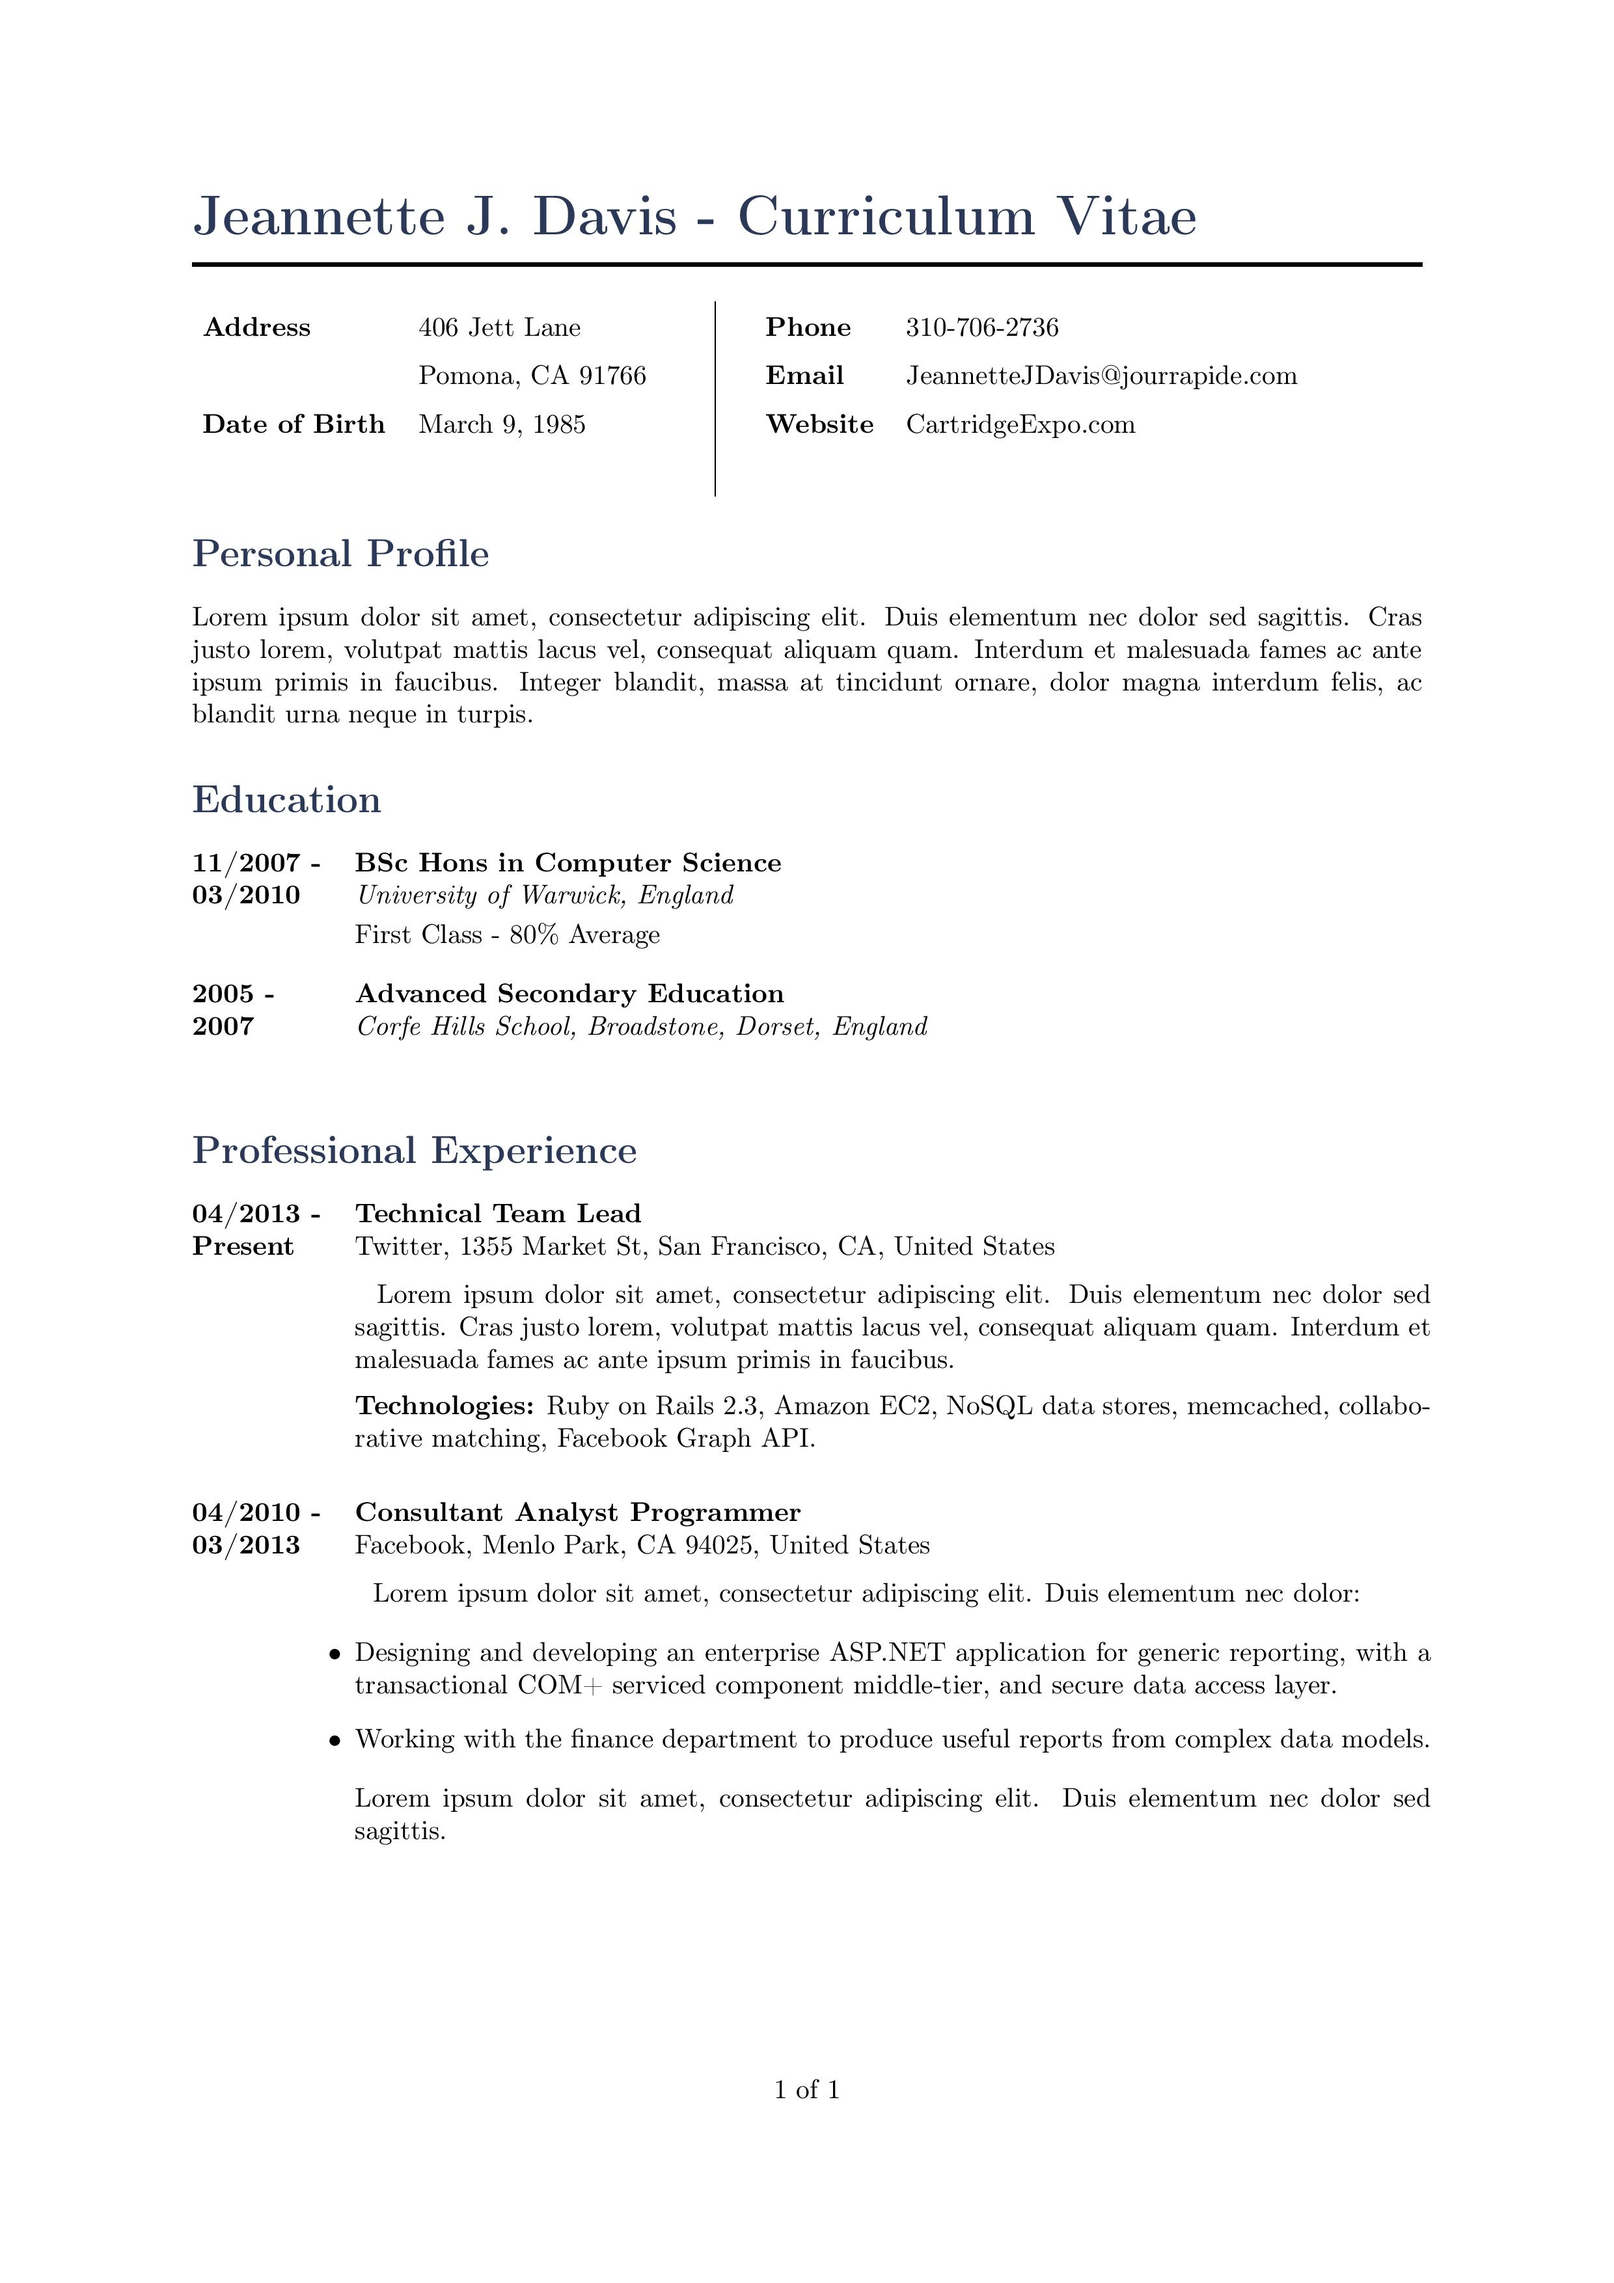
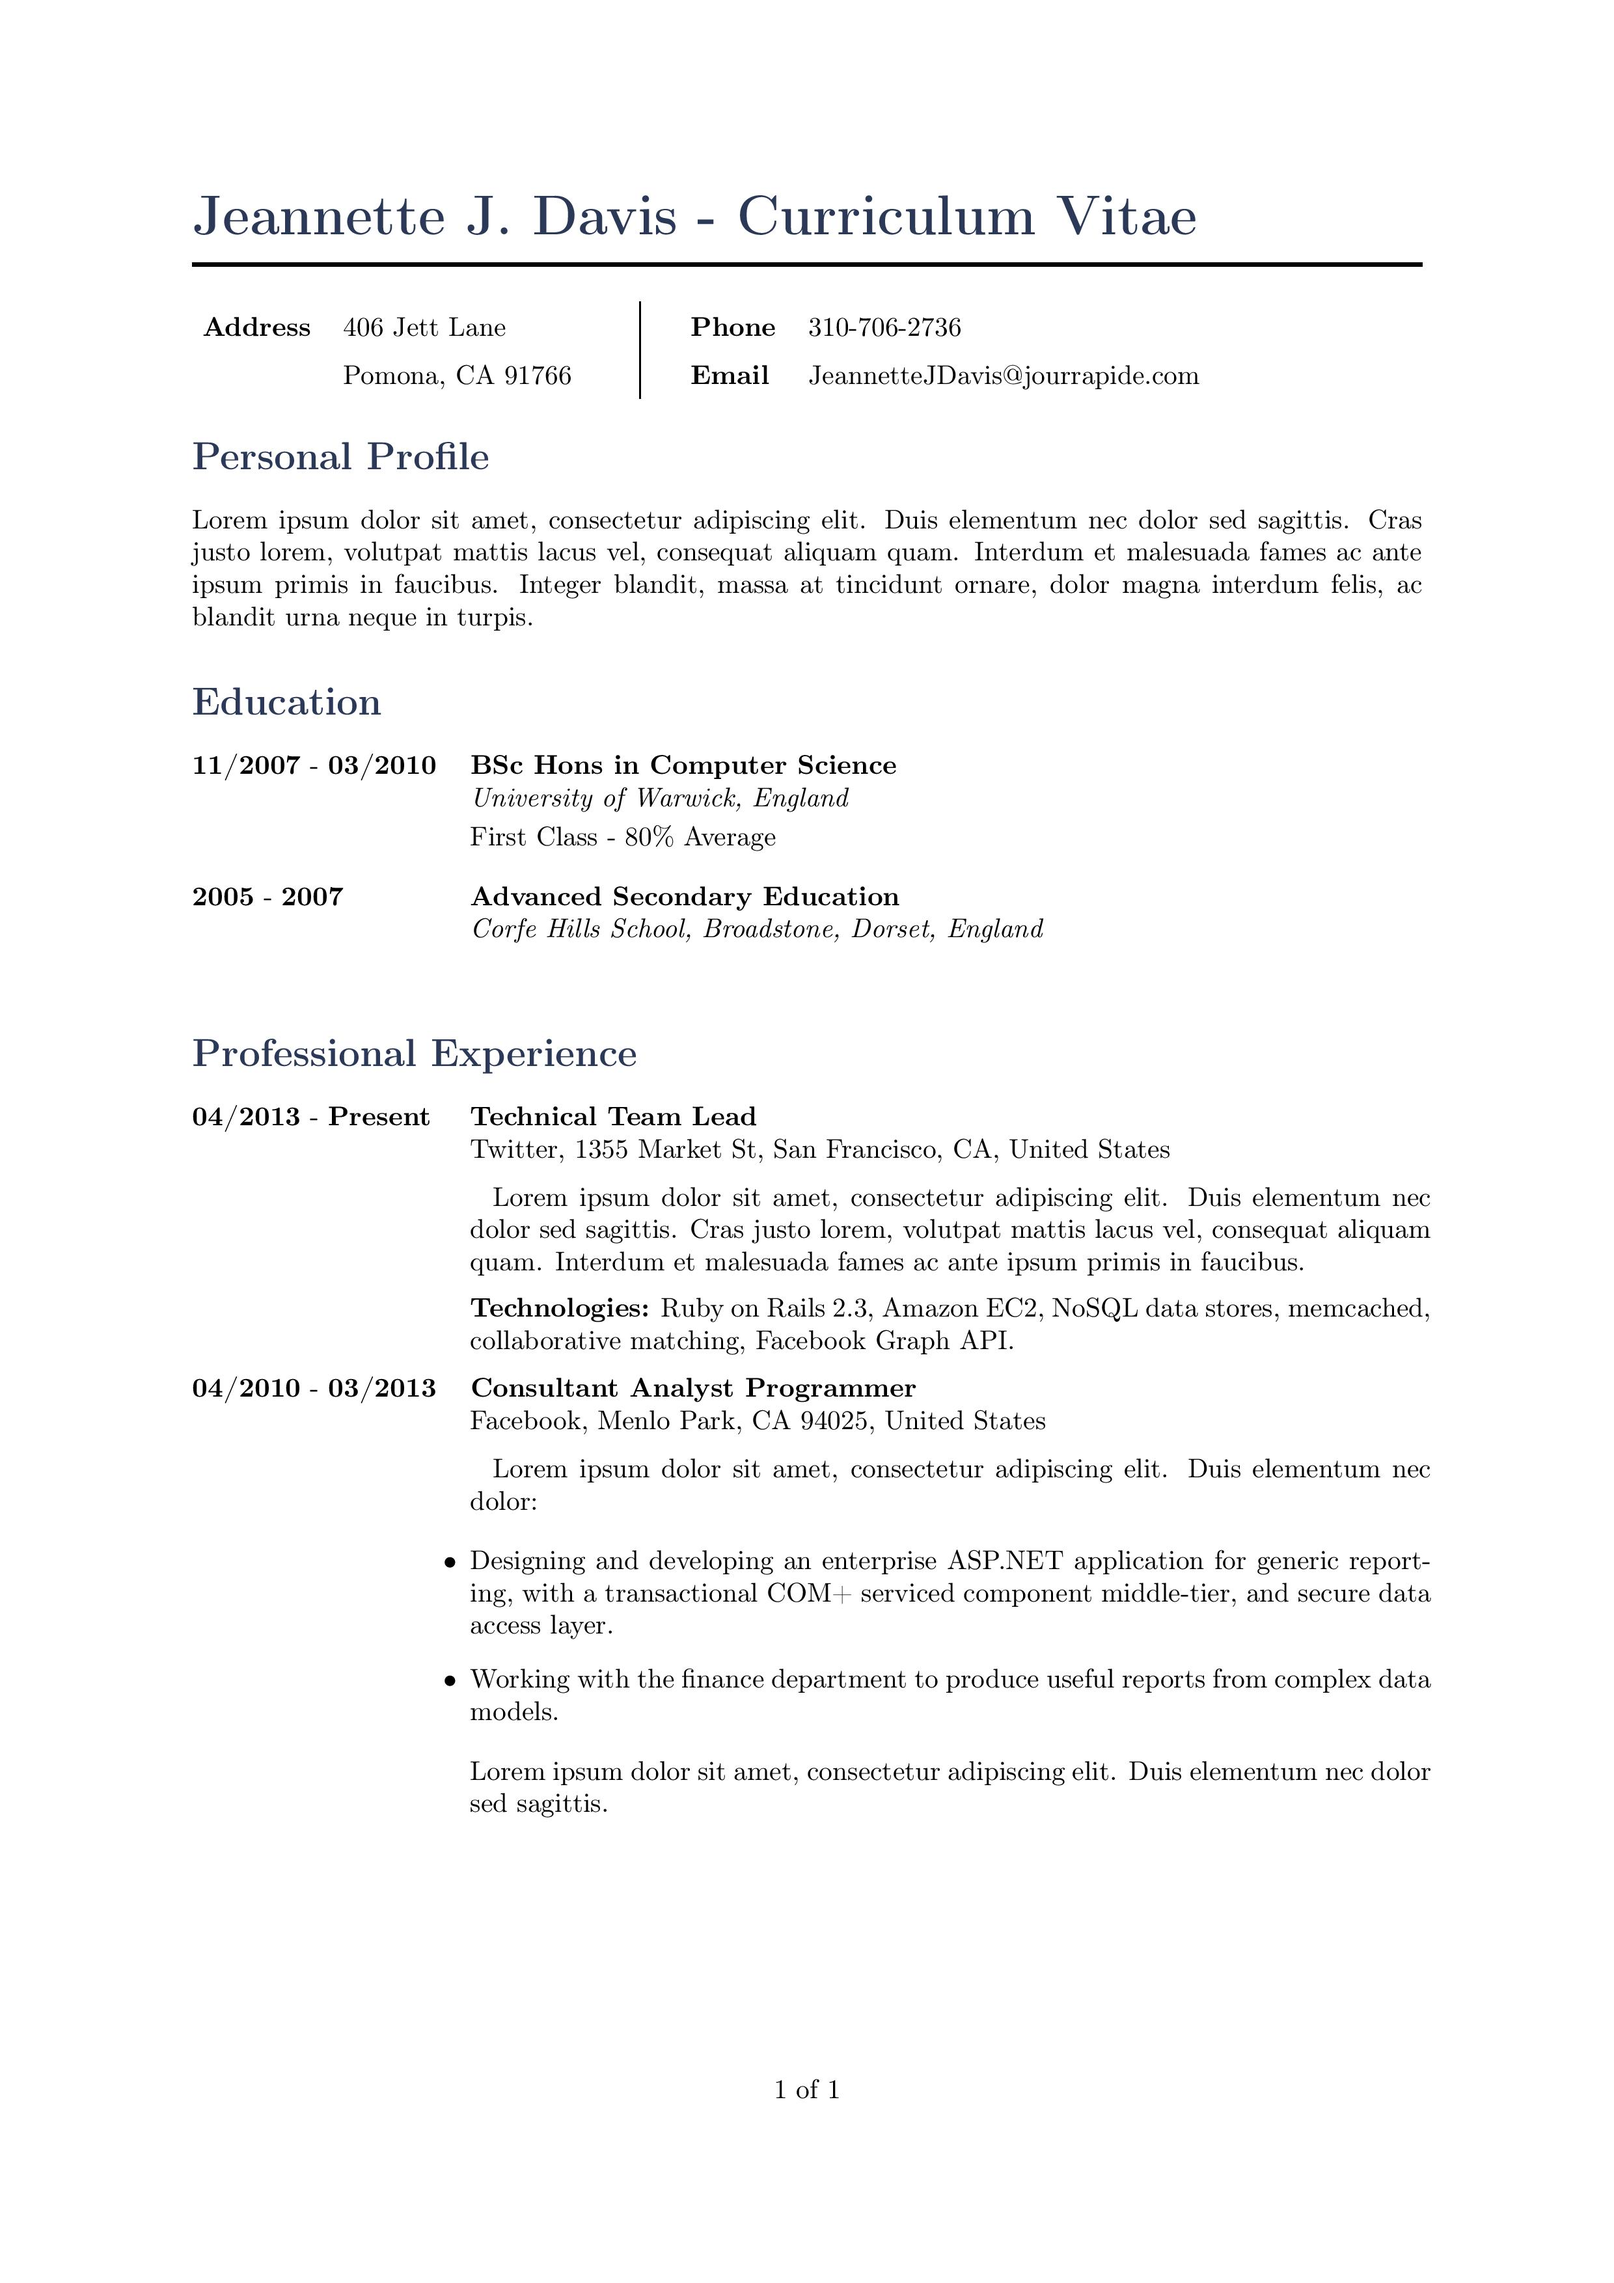
from-to on one line for job and education history

diff --git a/sample/cv.tex b/sample/cv.tex
@@ -15,16 +15,12 @@
   \begin{cvinfocolumn}
     {Address}{406 Jett Lane}
     {}{Pomona, CA 91766}
-    {Date of Birth}{March 9, 1985}
-    {}{}
   \end{cvinfocolumn}
 }
 {
   \begin{cvinfocolumn}
     {Phone}{310-706-2736}
     {Email}{\href{mailto:JeannetteJDavis@jourrapide.com}{JeannetteJDavis@jourrapide.com}}
-    {Website}{\href{http://CartridgeExpo.com}{CartridgeExpo.com}}
-    {}{}
   \end{cvinfocolumn}
 }
 \end{cvinfosection}
@@ -43,7 +39,7 @@ Lorem ipsum dolor sit amet, consectetur adipiscing elit. Duis elementum nec dolo
 \section*{Education}
 
 \begin{education}
-  {11/2007 -}{03/2010}
+  {11/2007}{03/2010}
   {BSc Hons in Computer Science}
   {University of Warwick, England}
   {First Class - 80\% Average}
@@ -52,7 +48,7 @@ Lorem ipsum dolor sit amet, consectetur adipiscing elit. Duis elementum nec dolo
 %------------------------------------------------
 
 \begin{education}
-  {2005 -}{2007}
+  {2005}{2007}
   {Advanced Secondary Education}
   {Corfe Hills School, Broadstone, Dorset, England}
   {}
@@ -65,7 +61,7 @@ Lorem ipsum dolor sit amet, consectetur adipiscing elit. Duis elementum nec dolo
 \section*{Professional Experience}
 
 \begin{job}
-  {04/2013 -}{Present}
+  {04/2013}{Present}
   {Technical Team Lead}
   {Twitter, 1355 Market St, San Francisco, CA, United States}
   {http://www.twitter.com}
@@ -76,7 +72,7 @@ Lorem ipsum dolor sit amet, consectetur adipiscing elit. Duis elementum nec dolo
 %------------------------------------------------
 
 \begin{job}
-  {04/2010 -}{03/2013}
+  {04/2010}{03/2013}
   {Consultant Analyst Programmer}
   {Facebook, Menlo Park, CA 94025, United States}
   {http://www.facebook.com}
